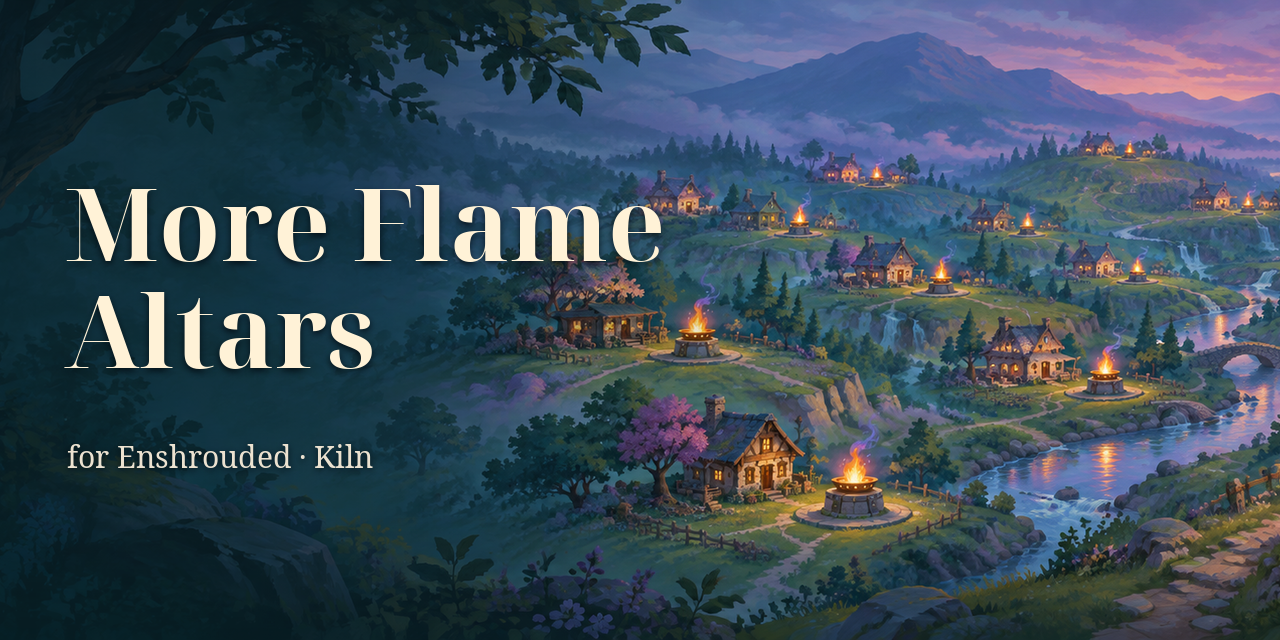
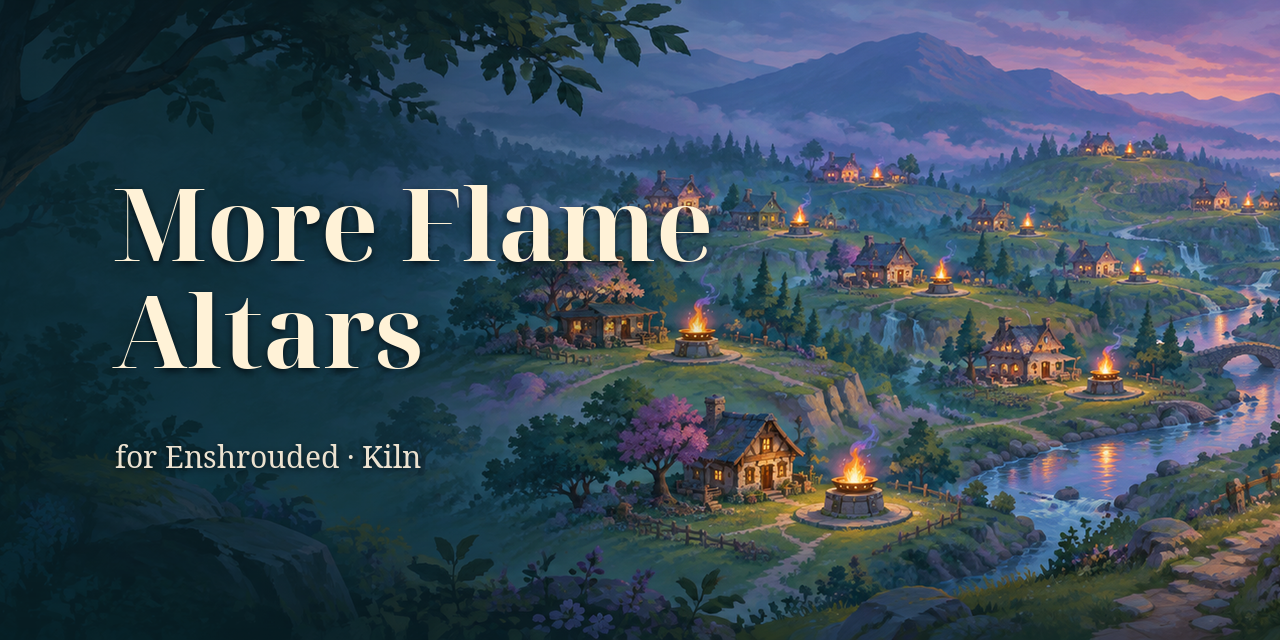
Social card: text inside GitHub's 40pt safe area (x 112 instead of 64), checked by compose.py

Changed region(s): [[0.0625, 0.2812, 0.5625, 0.4062], [0.0625, 0.4375, 0.3438, 0.5938], [0.0312, 0.6875, 0.3125, 0.75]]

diff --git a/art/compose.py b/art/compose.py
@@ -109,6 +109,7 @@ def lettering(image: Image.Image, text: str, xy: tuple[int, int],
     ink = Image.new("RGBA", image.size, color)
     ink.putalpha(mask)
     image.alpha_composite(ink)
+    return mask.getbbox()
 
 
 def save(image: Image.Image, name: str, text: list[str]):
@@ -152,9 +153,14 @@ def make_social():
     image = gradient_scrim(image, [(0, 130), (.33, 100), (.6, 0), (1, 0)])
     image = gradient_scrim(image, [(0, 0), (.8, 0), (1, 70)], vertical=True)
     title_font = font_to_fit("More Flame", BOLD, 100, 610)
-    lettering(image, "More Flame\nAltars", (64, 185), title_font, line_spacing=7)
-    lettering(image, SOCIAL_LINE, (67, 444), ImageFont.truetype(REGULAR, 30),
-              SECONDARY_COLOR, shadow_offset=(0, 2))
+    boxes = [
+        lettering(image, "More Flame\nAltars", (112, 185), title_font, line_spacing=7),
+        lettering(image, SOCIAL_LINE, (115, 444), ImageFont.truetype(REGULAR, 30),
+                  SECONDARY_COLOR, shadow_offset=(0, 2)),
+    ]
+    # GitHub crops social cards: keep every letter 40pt (80 px here) inside the edges.
+    for left, top, right, bottom in boxes:
+        assert left >= 80 and top >= 80 and right <= 1200 and bottom <= 560, (left, top, right, bottom)
     save(image, "github_social_1280x640.png", [TITLE, SOCIAL_LINE])
     # GitHub's social preview takes at most 1 MB; the PNG is larger.
     jpg = OUT / "github_social_1280x640.jpg"
